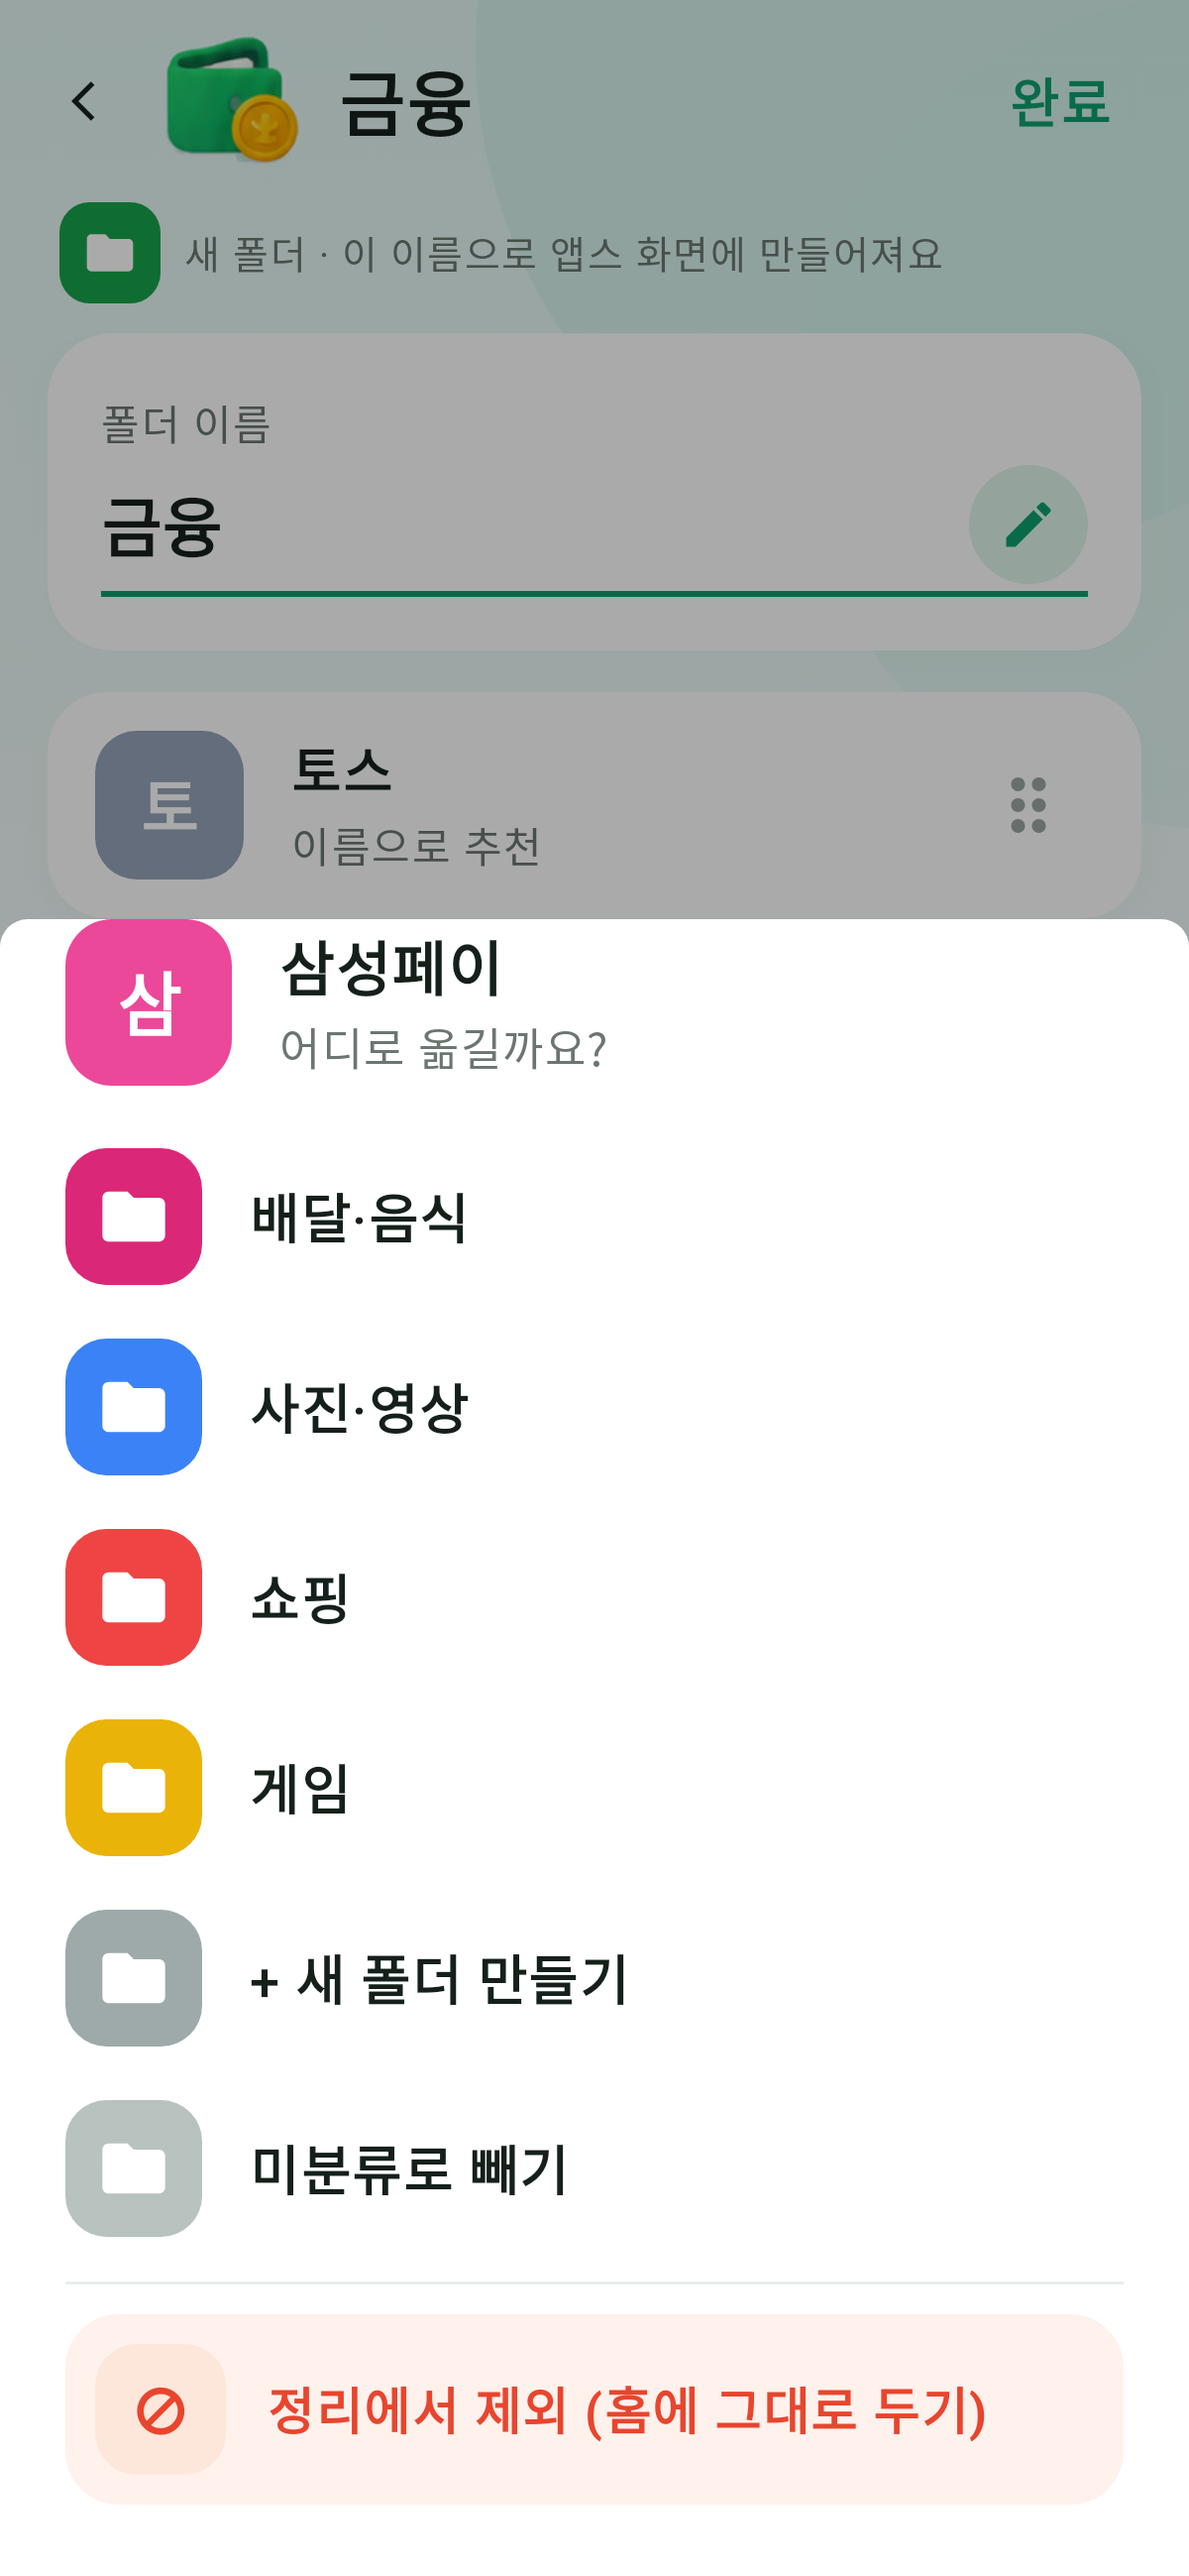
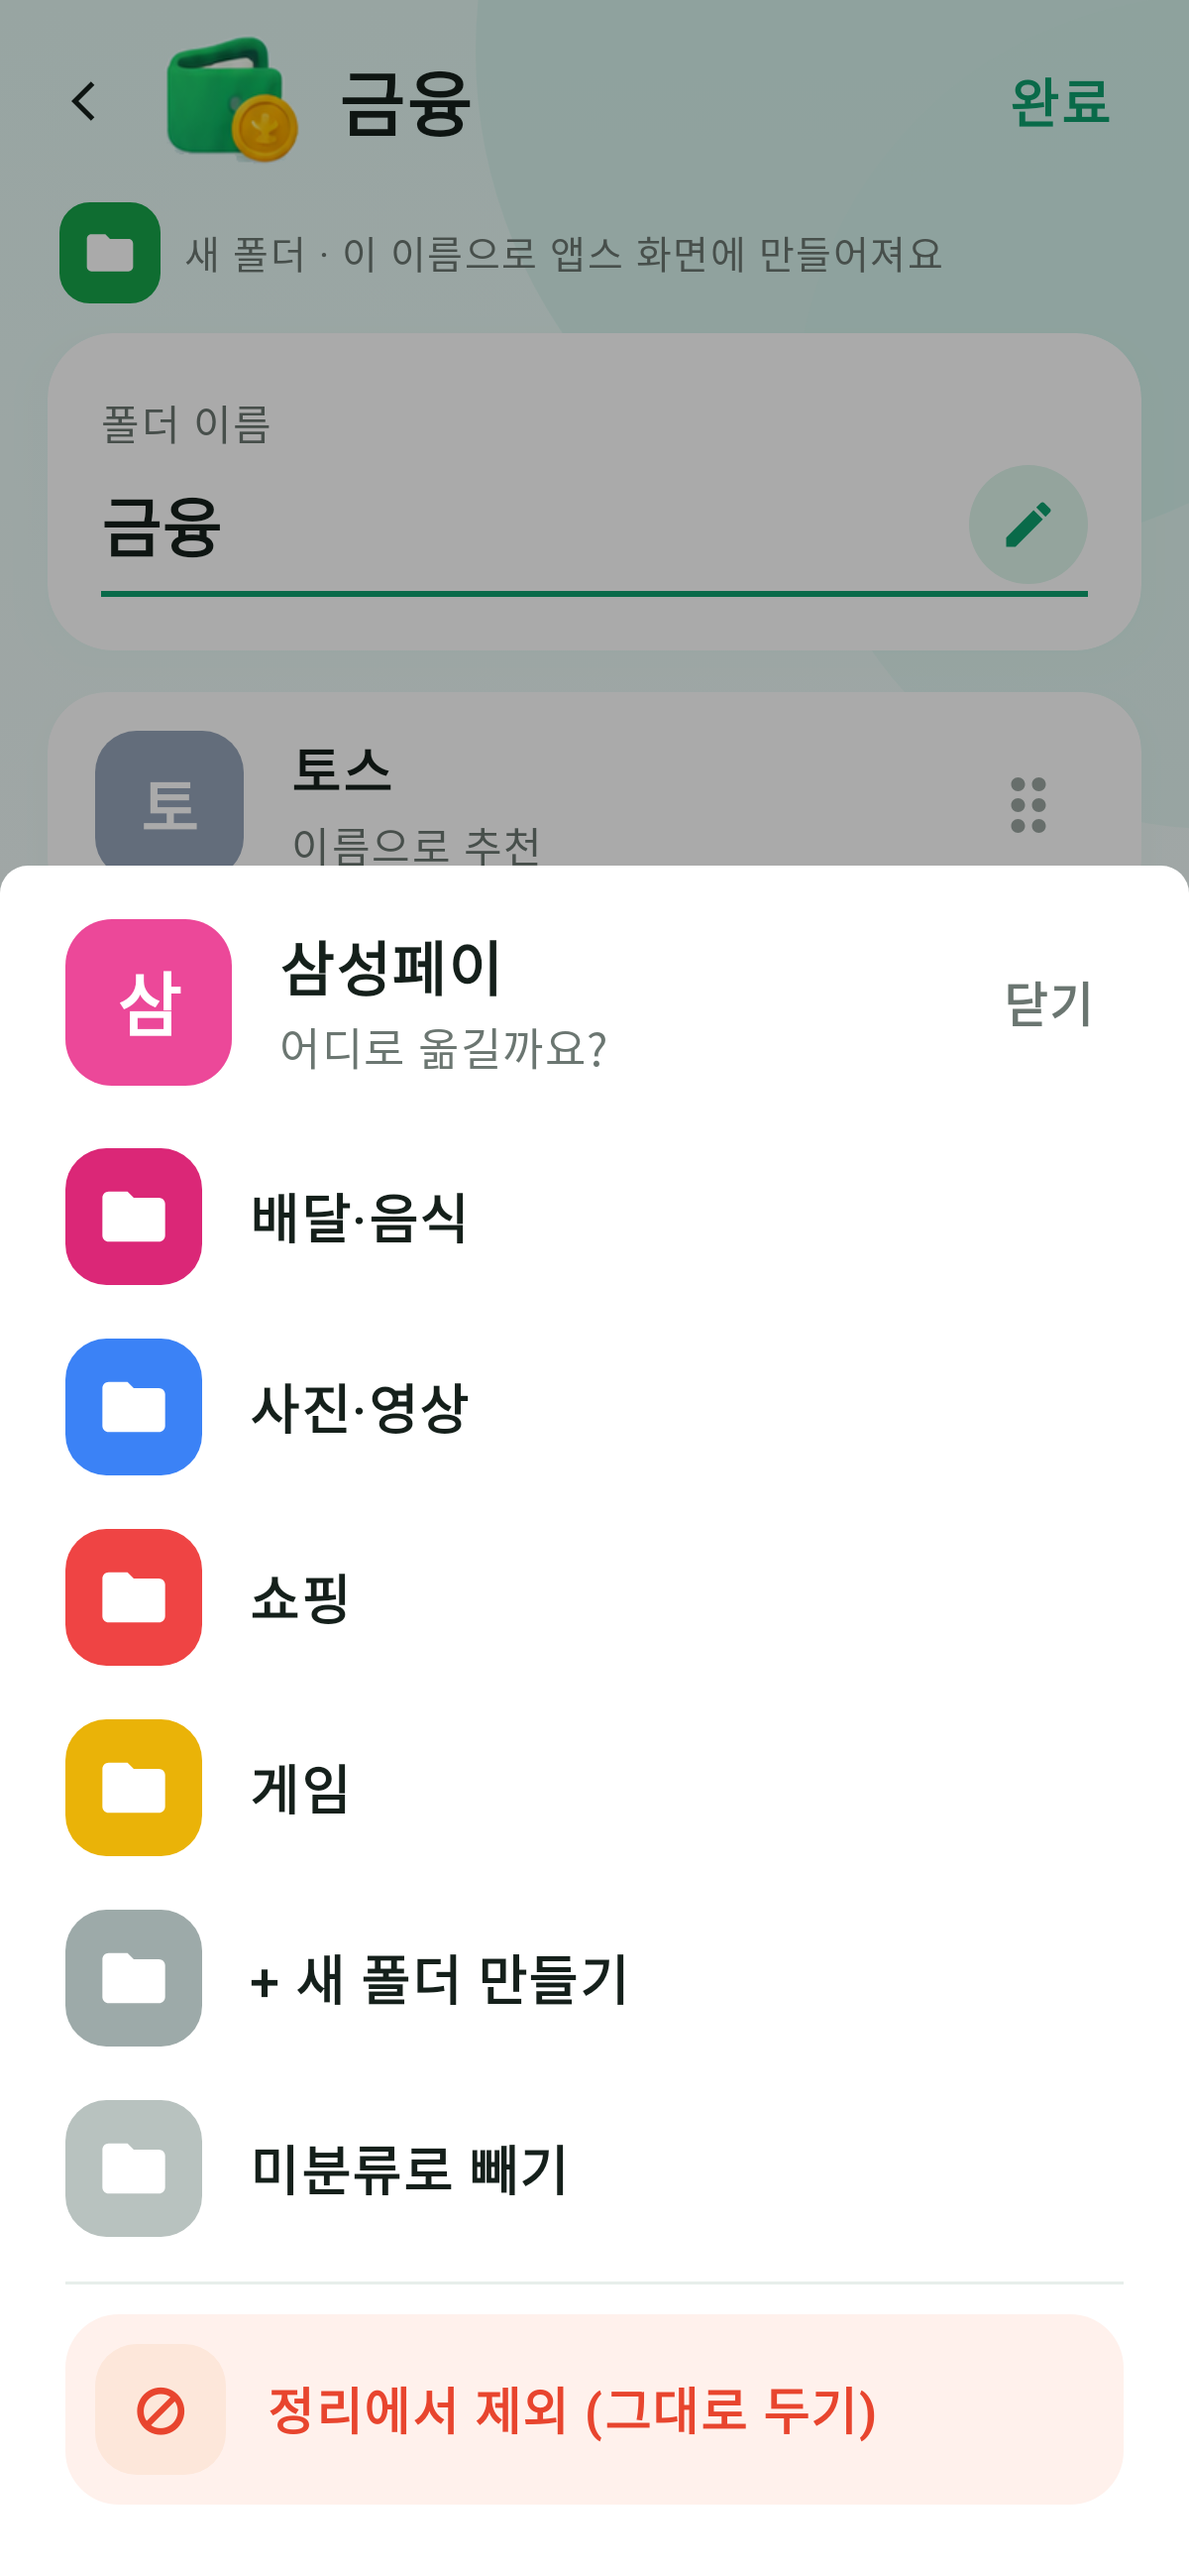
앱 이동 시트 스크롤 불안정 수정: 중첩 스크롤 제거, 직접 만든 패널로 교체
Claude-Session: https://claude.ai/code/session_01Jns4KXS1VCFkLz2uW4hCHY

diff --git a/app/src/main/java/com/happyfamily/apporganizer/ui/FolderEditScreen.kt b/app/src/main/java/com/happyfamily/apporganizer/ui/FolderEditScreen.kt
@@ -7,6 +7,9 @@ import androidx.compose.foundation.layout.Arrangement
 import androidx.compose.foundation.layout.Box
 import androidx.compose.foundation.layout.Column
 import androidx.compose.foundation.layout.Row
+import androidx.compose.foundation.layout.PaddingValues
+import androidx.compose.foundation.lazy.items
+import androidx.compose.foundation.lazy.LazyColumn
 import androidx.compose.foundation.layout.fillMaxSize
 import androidx.compose.foundation.layout.fillMaxWidth
 import androidx.compose.foundation.layout.height
@@ -187,42 +190,48 @@ private fun ReorderList(s: AppState, id: String) {
 fun MoveSheetContent(s: AppState, pkg: String, close: () -> Unit) {
     val a = s.appMap[pkg]
     val cur = s.plan?.folders?.firstOrNull { pkg in it.apps }
-    Column(Modifier.fillMaxWidth().padding(horizontal = 22.dp).padding(bottom = 24.dp)) {
-        Row(verticalAlignment = Alignment.CenterVertically) {
-            AppIcon(a?.icon, a?.label ?: pkg, 56.dp)
-            RowGap(16)
-            Column {
-                Text(a?.label ?: pkg, fontSize = 20.sp, fontWeight = FontWeight.ExtraBold, color = C.ink)
-                Text("어디로 옮길까요?", fontSize = 15.sp, color = C.sub)
+    val targets = s.plan?.folders?.filter { it.id != cur?.id }?.sortedBy { if (it.existing) 0 else 1 }.orEmpty()
+    // 시트 전체를 스크롤 목록 하나로 (중첩 스크롤 충돌 방지)
+    LazyColumn(Modifier.fillMaxWidth().padding(horizontal = 22.dp), contentPadding = PaddingValues(bottom = 24.dp)) {
+        item {
+            Row(verticalAlignment = Alignment.CenterVertically, modifier = Modifier.padding(top = 18.dp)) {
+                AppIcon(a?.icon, a?.label ?: pkg, 56.dp)
+                RowGap(16)
+                Column(Modifier.weight(1f)) {
+                    Text(a?.label ?: pkg, fontSize = 20.sp, fontWeight = FontWeight.ExtraBold, color = C.ink)
+                    Text("어디로 옮길까요?", fontSize = 15.sp, color = C.sub)
+                }
+                Text("닫기", fontSize = 16.sp, fontWeight = FontWeight.Bold, color = C.sub,
+                    modifier = Modifier.clip(RoundedCornerShape(50)).clickable { close() }.padding(10.dp))
             }
+            Gap(12)
         }
-        Gap(12)
-        Column(Modifier.heightIn(max = 380.dp).verticalScroll(rememberScrollState())) {
-            s.plan?.folders?.filter { it.id != cur?.id }?.sortedBy { if (it.existing) 0 else 1 }?.forEach { f ->
-                SheetOption(f.name + if (f.existing) "  · 기존" else "", C.folderColor(f.colorIndex)) { s.move(pkg, Target.ToFolder(f.id)); close() }
-            }
+        items(targets, key = { it.id }) { f ->
+            SheetOption(f.name + if (f.existing) "  · 기존" else "", C.folderColor(f.colorIndex)) { s.move(pkg, Target.ToFolder(f.id)); close() }
         }
-        SheetOption("+ 새 폴더 만들기", Color(0xFF9DAAA9)) { close(); s.dialog = Dlg.NewFolder(pkg) }
-        if (cur != null) SheetOption("미분류로 빼기", Color(0xFFB8C2BF)) { s.move(pkg, Target.Unassign); close() }
-        Gap(6)
-        Divider()
-        Gap(10)
-        if (pkg in s.excluded) {
-            Row(
-                Modifier.fillMaxWidth().clip(RoundedCornerShape(18.dp)).background(C.greenSoft)
-                    .clickable { s.setExcluded(pkg, false); close() }.padding(14.dp),
+        item {
+            SheetOption("+ 새 폴더 만들기", Color(0xFF9DAAA9)) { close(); s.dialog = Dlg.NewFolder(pkg) }
+            if (cur != null) SheetOption("미분류로 빼기", Color(0xFFB8C2BF)) { s.move(pkg, Target.Unassign); close() }
+            Gap(6)
+            Divider()
+            Gap(10)
+            if (pkg in s.excluded) {
+                Row(
+                    Modifier.fillMaxWidth().clip(RoundedCornerShape(18.dp)).background(C.greenSoft)
+                        .clickable { s.setExcluded(pkg, false); close() }.padding(14.dp),
+                    verticalAlignment = Alignment.CenterVertically
+                ) { Text("제외 해제 (다시 정리 대상으로)", fontSize = 17.sp, fontWeight = FontWeight.Bold, color = C.green) }
+            } else Row(
+                Modifier.fillMaxWidth().clip(RoundedCornerShape(18.dp)).background(Color(0xFFFFF1EC))
+                    .clickable { s.move(pkg, Target.Exclude); close() }.padding(10.dp),
                 verticalAlignment = Alignment.CenterVertically
-            ) { Text("제외 해제 (다시 정리 대상으로)", fontSize = 17.sp, fontWeight = FontWeight.Bold, color = C.green) }
-        } else Row(
-            Modifier.fillMaxWidth().clip(RoundedCornerShape(18.dp)).background(Color(0xFFFFF1EC))
-                .clickable { s.move(pkg, Target.Exclude); close() }.padding(10.dp),
-            verticalAlignment = Alignment.CenterVertically
-        ) {
-            Box(Modifier.size(44.dp).clip(RoundedCornerShape(14.dp)).background(C.orangeSoft), contentAlignment = Alignment.Center) {
-                Text("⊘", fontSize = 22.sp, color = C.red, fontWeight = FontWeight.Bold)
+            ) {
+                Box(Modifier.size(44.dp).clip(RoundedCornerShape(14.dp)).background(C.orangeSoft), contentAlignment = Alignment.Center) {
+                    Text("⊘", fontSize = 22.sp, color = C.red, fontWeight = FontWeight.Bold)
+                }
+                RowGap(14)
+                Text("정리에서 제외 (그대로 두기)", fontSize = 17.sp, fontWeight = FontWeight.Bold, color = C.red)
             }
-            RowGap(14)
-            Text("정리에서 제외 (홈에 그대로 두기)", fontSize = 17.sp, fontWeight = FontWeight.Bold, color = C.red)
         }
     }
 }

diff --git a/app/src/main/java/com/happyfamily/apporganizer/MainActivity.kt b/app/src/main/java/com/happyfamily/apporganizer/MainActivity.kt
@@ -11,6 +11,13 @@ import androidx.activity.compose.BackHandler
 import androidx.activity.compose.setContent
 import androidx.activity.enableEdgeToEdge
 import androidx.compose.animation.AnimatedContent
+import androidx.compose.animation.AnimatedVisibility
+import androidx.compose.animation.slideInVertically
+import androidx.compose.animation.slideOutVertically
+import androidx.compose.foundation.interaction.MutableInteractionSource
+import androidx.compose.foundation.layout.fillMaxHeight
+import androidx.compose.foundation.layout.navigationBarsPadding
+import androidx.compose.foundation.layout.wrapContentHeight
 import androidx.compose.animation.fadeIn
 import androidx.compose.animation.fadeOut
 import androidx.compose.animation.togetherWith
@@ -33,12 +40,10 @@ import androidx.compose.material3.AlertDialog
 import androidx.compose.material3.CircularProgressIndicator
 import androidx.compose.material3.ExperimentalMaterial3Api
 import androidx.compose.material3.MaterialTheme
-import androidx.compose.material3.ModalBottomSheet
 import androidx.compose.material3.OutlinedTextField
 import androidx.compose.material3.Text
 import androidx.compose.material3.TextButton
 import androidx.compose.material3.lightColorScheme
-import androidx.compose.material3.rememberModalBottomSheetState
 import androidx.compose.runtime.Composable
 import androidx.compose.runtime.LaunchedEffect
 import androidx.compose.runtime.getValue
@@ -47,6 +52,7 @@ import androidx.compose.runtime.remember
 import androidx.compose.runtime.setValue
 import androidx.compose.ui.Alignment
 import androidx.compose.ui.Modifier
+import androidx.compose.ui.draw.clip
 import androidx.compose.ui.graphics.Color
 import androidx.compose.ui.text.font.FontWeight
 import androidx.compose.ui.unit.dp
@@ -176,10 +182,28 @@ class MainActivity : ComponentActivity() {
             }
         }
 
-        s.sheetPkg?.let { pkg ->
-            val st = rememberModalBottomSheetState(skipPartiallyExpanded = true)
-            ModalBottomSheet(onDismissRequest = { s.sheetPkg = null }, sheetState = st, containerColor = Color.White) {
-                MoveSheetContent(s, pkg) { s.sheetPkg = null }
+        // 앱 이동 시트: 직접 만든 패널 (끌어내리기 제스처와 목록 스크롤이 충돌하지 않도록)
+        AnimatedVisibility(s.sheetPkg != null, enter = fadeIn(), exit = fadeOut()) {
+            Box(Modifier.fillMaxSize().background(Color(0x66000000)).clickable(
+                interactionSource = remember { MutableInteractionSource() }, indication = null
+            ) { s.sheetPkg = null })
+        }
+        AnimatedVisibility(
+            s.sheetPkg != null, modifier = Modifier.fillMaxSize(),
+            enter = slideInVertically { it }, exit = slideOutVertically { it },
+        ) {
+            var last by remember { mutableStateOf<String?>(null) }
+            s.sheetPkg?.let { last = it }
+            Box(Modifier.fillMaxSize(), contentAlignment = Alignment.BottomCenter) {
+                Box(
+                    Modifier.fillMaxWidth().fillMaxHeight(0.85f).wrapContentHeight(Alignment.Bottom)
+                        .clip(RoundedCornerShape(topStart = 28.dp, topEnd = 28.dp))
+                        .background(Color.White)
+                        .clickable(interactionSource = remember { MutableInteractionSource() }, indication = null) {}
+                        .navigationBarsPadding()
+                ) {
+                    last?.let { pkg -> MoveSheetContent(s, pkg) { s.sheetPkg = null } }
+                }
             }
         }
 
